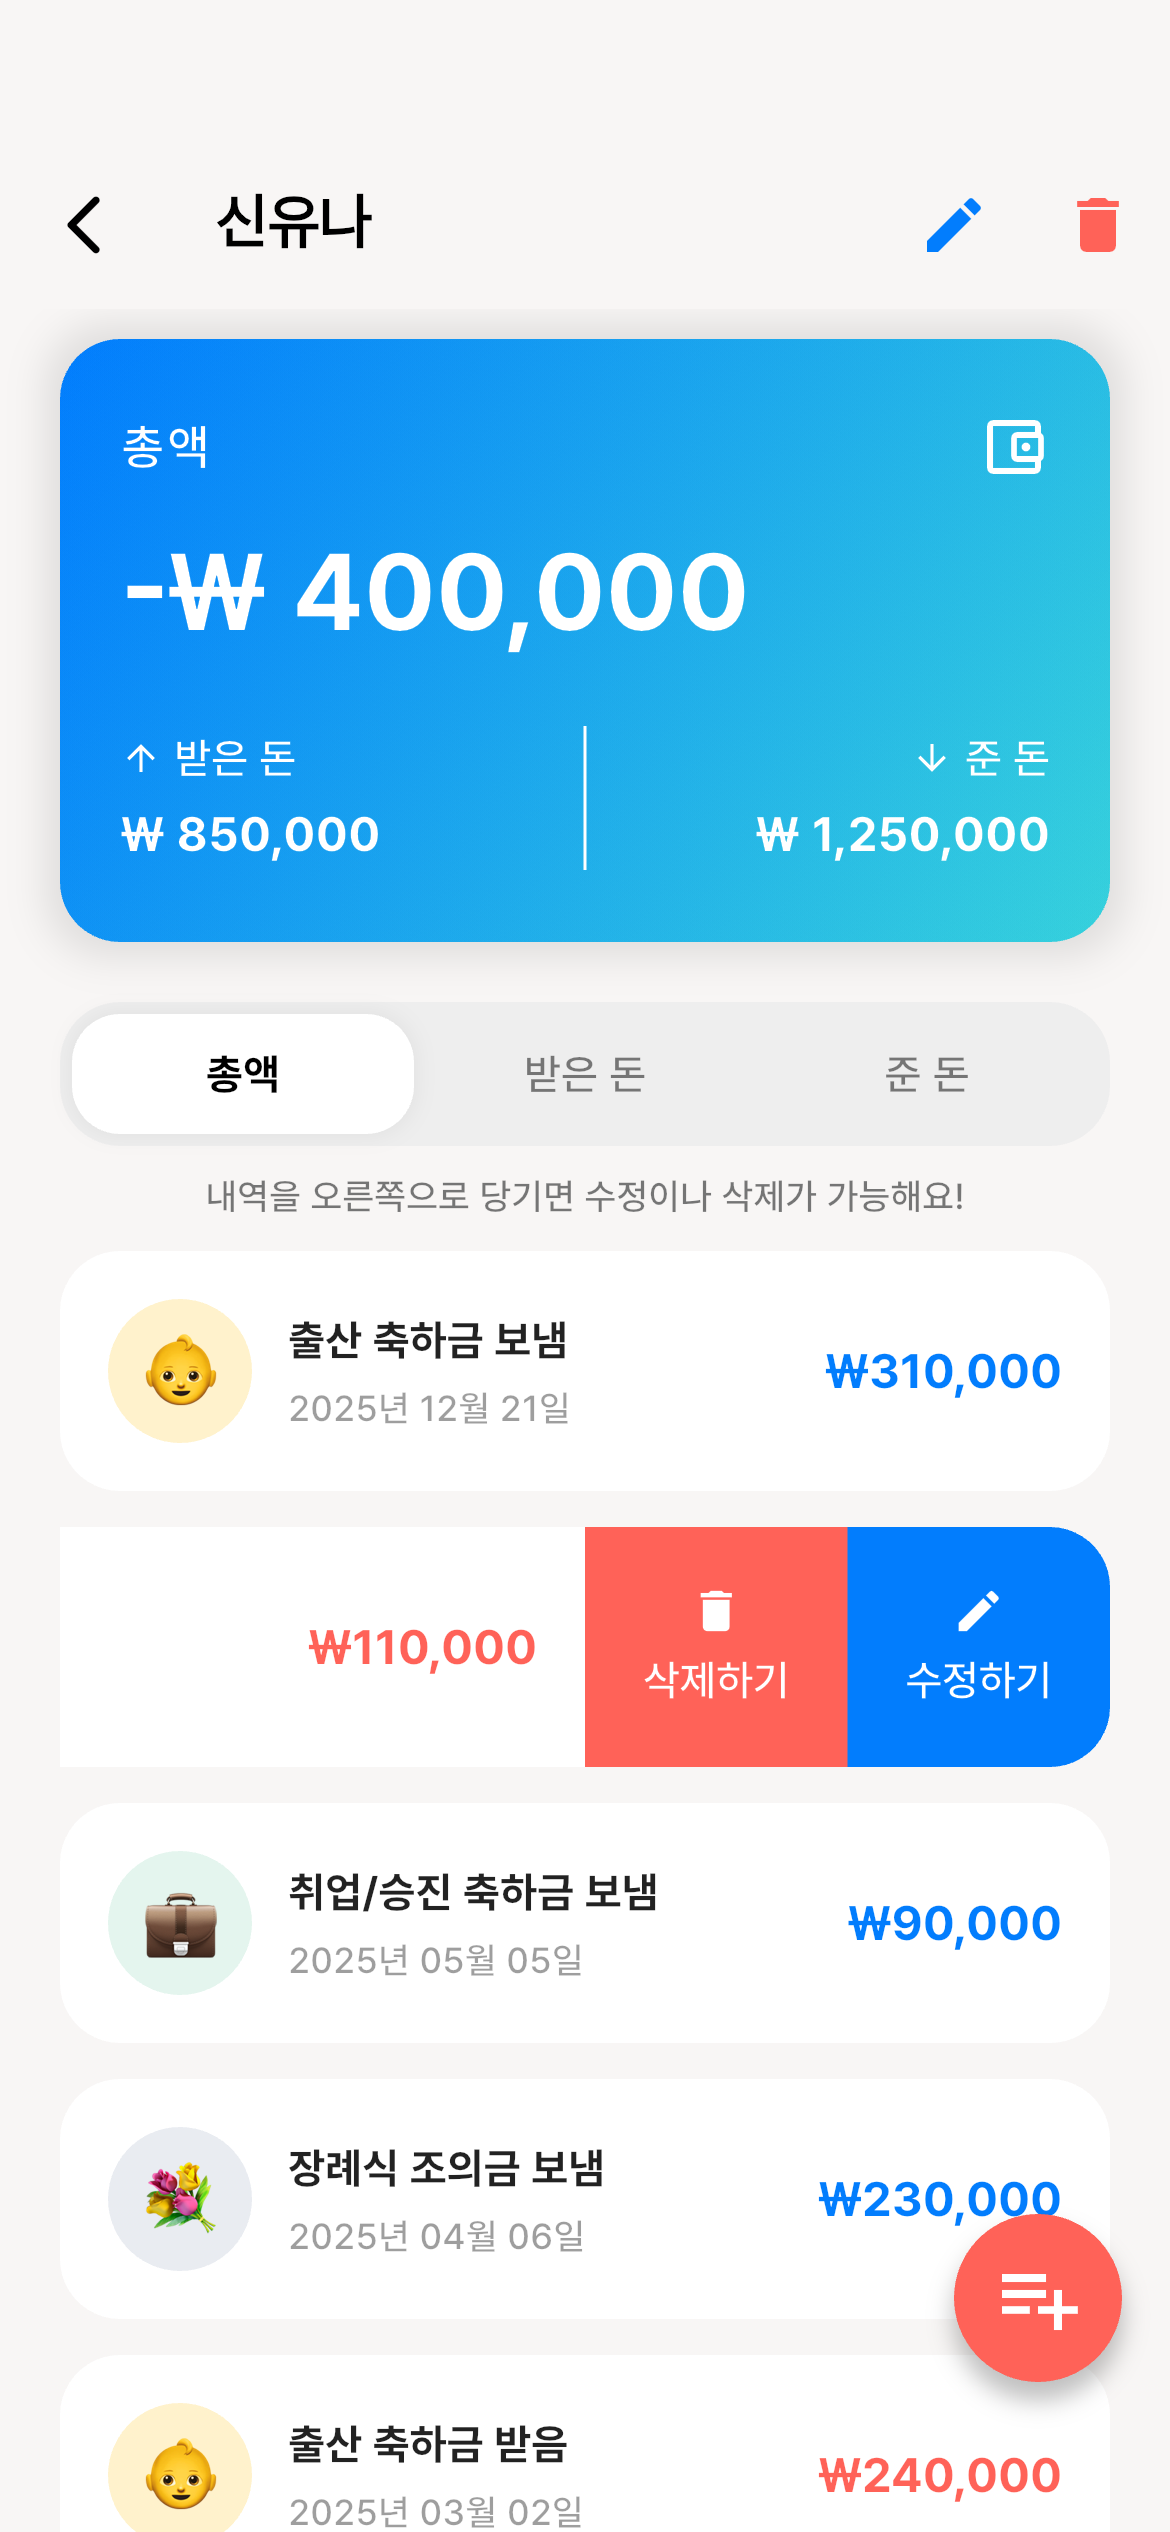
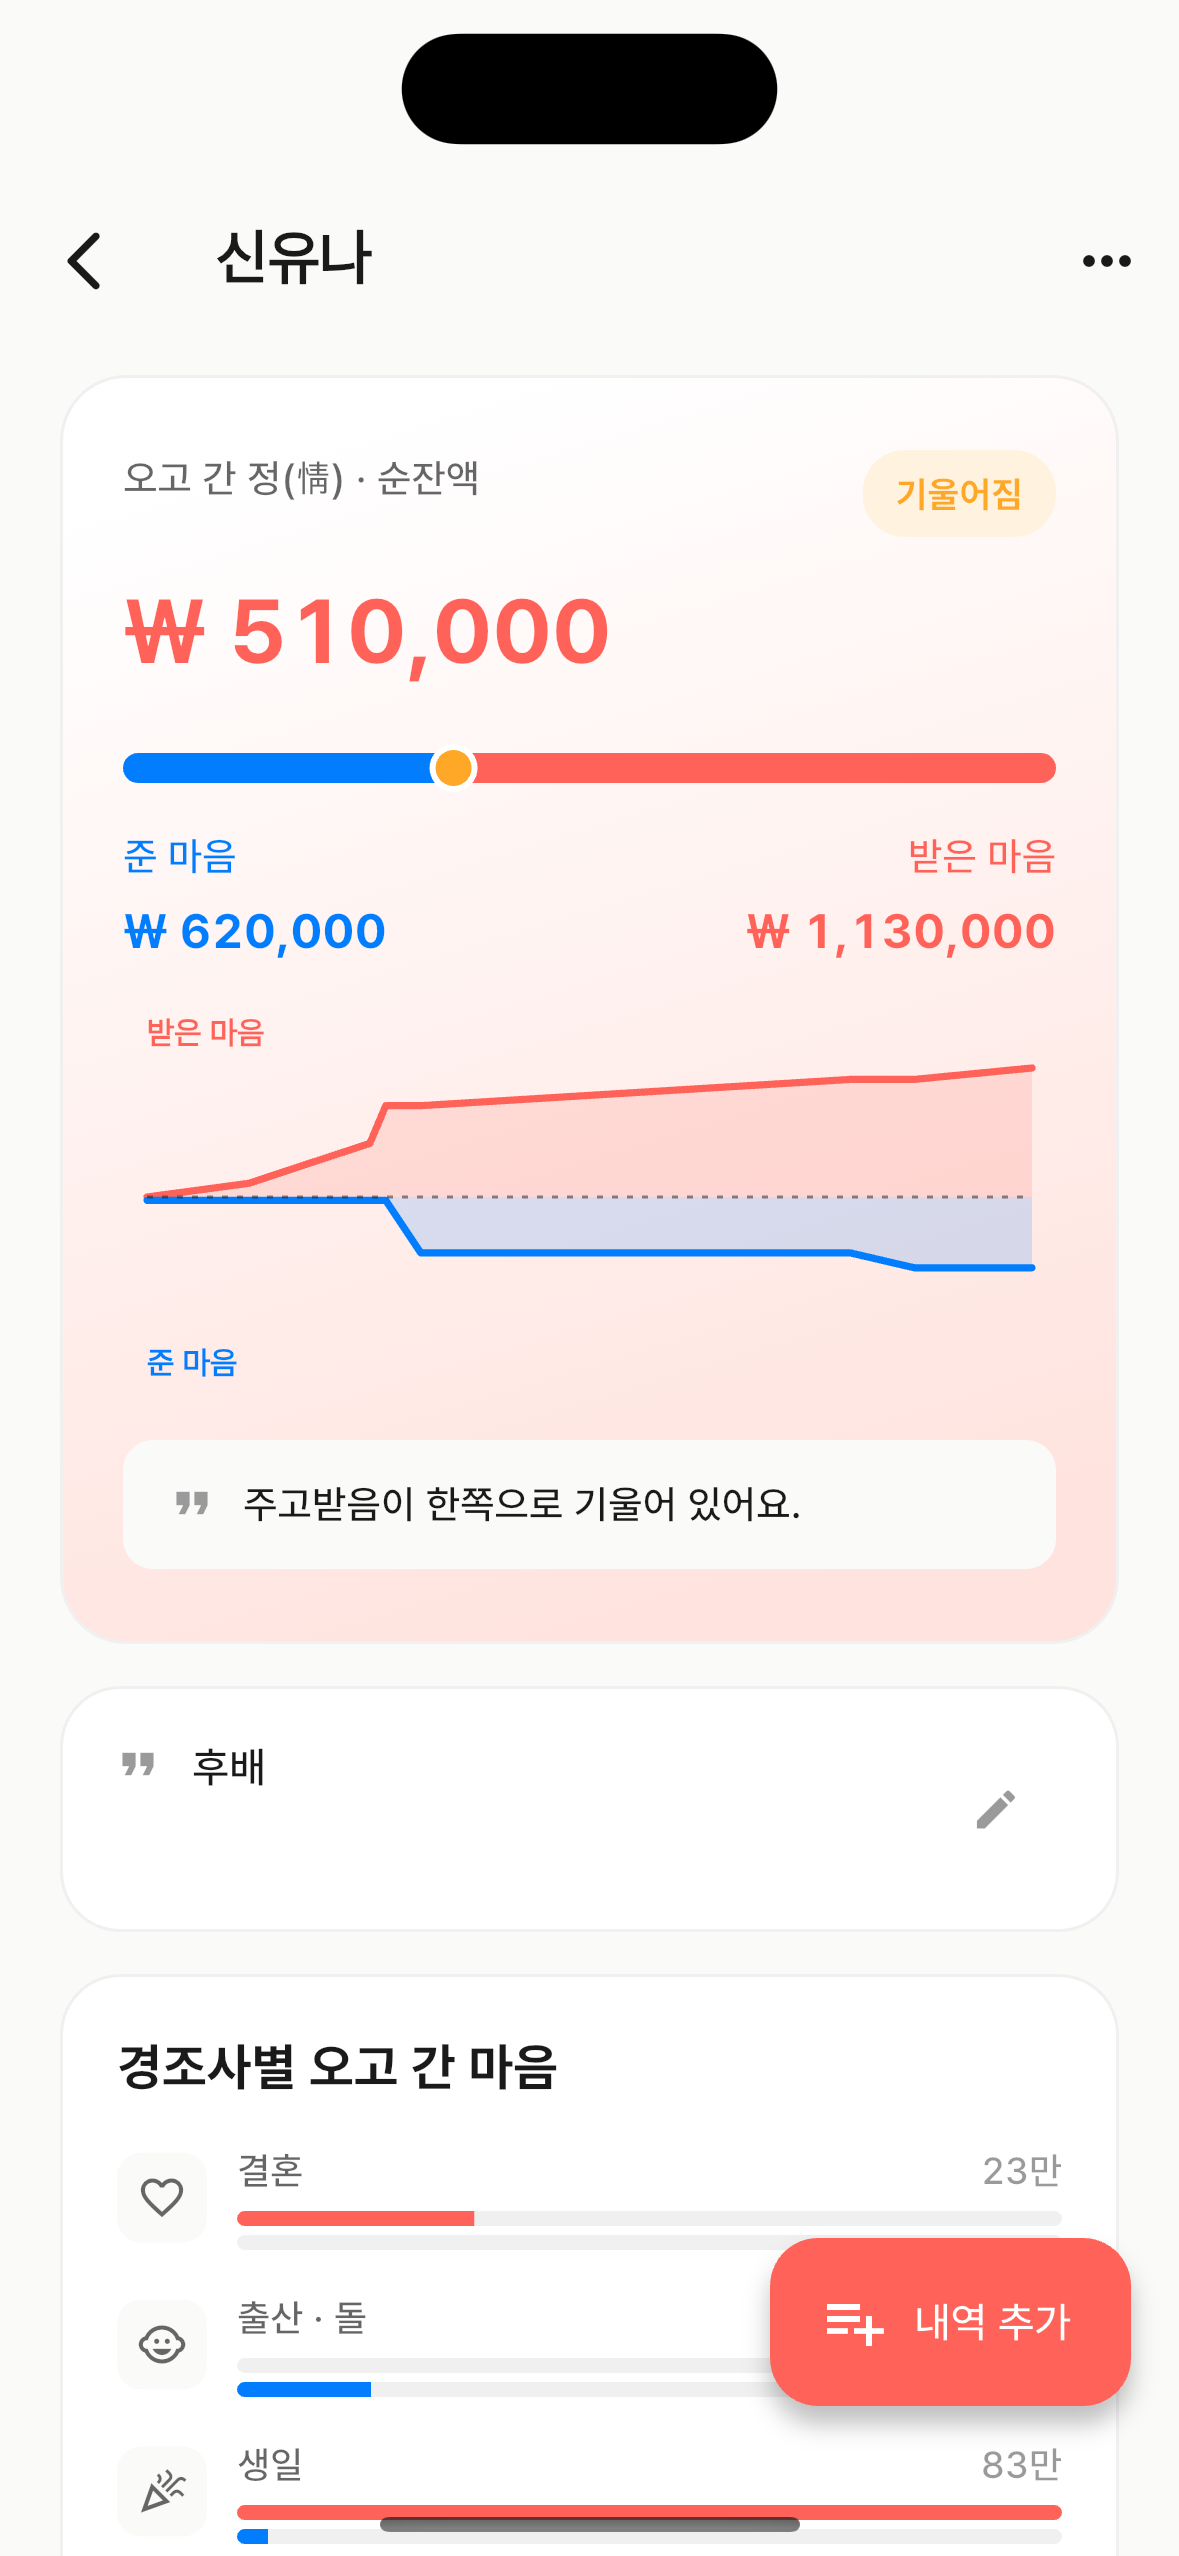
feat: v2.0 업데이트 반영 및 정책 페이지 정리
- 문의 이메일을 support@novelus.dev로 통일
- 이용약관/개인정보처리방침 페이지의 뒤로가기 버튼 제거
- 업데이트 내역(/updates) 페이지 신설, v2.0.0/v1.1.0/v1.0.0 changelog 등록
- 관계 시각화, CSV 내보내기, 다크모드 기능 소개 카드 추가
- 부정확했던 프라이버시/통계 문구 정정
- 히어로 섹션 스크린샷을 v2.0 실기기 캡처로 교체

diff --git a/app/updates/page.tsx b/app/updates/page.tsx
@@ -1,0 +1,106 @@
+import type { Metadata } from "next"
+import { CheckCircle2 } from "lucide-react"
+import { PolicyLayout } from "@/components/policy-layout"
+
+export const metadata: Metadata = {
+  title: "업데이트 내역 - CashHeart",
+  description: "CashHeart 앱의 버전별 업데이트 내역입니다.",
+}
+
+interface ChangelogEntry {
+  version: string
+  date: string
+  summary: string
+  items: string[]
+  latest?: boolean
+}
+
+const changelog: ChangelogEntry[] = [
+  {
+    version: "v2.0.0",
+    date: "2026-07-24",
+    summary:
+      "사람별 관계를 더 깊이 볼 수 있도록 관계 시각화를 새로 만들고, 통계와 데이터 내보내기 기능을 추가했습니다.",
+    items: [
+      "관계별로 오고 간 정을 관찰자 시점으로 보여주는 균형 시각화 추가",
+      "경조사가 몰리는 시기, 작년과의 비교 통계 추가",
+      "기록을 CSV로 내보내는 기능 추가",
+      "화면 디자인 전면 리뉴얼",
+      "이전 버전 데이터는 자동으로 안전하게 이관됩니다",
+    ],
+    latest: true,
+  },
+  {
+    version: "v1.1.0",
+    date: "2026-01-18",
+    summary:
+      "홈 화면을 더 보기 쉽게 바꾸고, 지인 분류와 통계 기능을 추가했습니다.",
+    items: [
+      "홈에서 전체 · 받은 · 준 금액을 한눈에 확인",
+      "지인 카테고리 & 필터로 원하는 사람만 보기",
+      "지인 삭제 기능 추가",
+      "다크 모드 지원",
+      "최근 6개월 거래 흐름 & 카테고리별 통계 제공",
+    ],
+  },
+  {
+    version: "v1.0.0",
+    date: "2025-11-27",
+    summary: "CashHeart가 처음 출시되었습니다.",
+    items: [
+      "홈에서 전체 거래 금액 · 받은 돈 · 준 돈 요약 보기",
+      "지인 카테고리 & 필터로 정리하기",
+      "받은 돈 / 준 돈 자동 합산",
+      "간단한 내역 추가 · 수정 · 삭제",
+      "최근 6개월 거래 흐름 및 카테고리별 통계",
+      "모든 데이터를 기기에만 저장하는 로컬 저장 기반",
+    ],
+  },
+]
+
+export default function UpdatesPage() {
+  return (
+    <PolicyLayout title="업데이트 내역">
+      <div className="space-y-8">
+        <p className="text-muted-foreground">
+          CashHeart의 새로운 기능과 개선 사항을 버전별로 확인할 수 있습니다.
+        </p>
+
+        <div className="space-y-6">
+          {changelog.map((entry) => (
+            <section
+              key={entry.version}
+              className="rounded-xl border border-border bg-card p-6 shadow-sm md:p-8"
+            >
+              <div className="mb-4 flex flex-wrap items-center gap-3">
+                <span className="rounded-full bg-primary/10 px-3 py-1 text-sm font-semibold text-primary">
+                  {entry.version}
+                </span>
+                {entry.latest && (
+                  <span className="rounded-full bg-foreground px-3 py-1 text-xs font-semibold text-background">
+                    최신
+                  </span>
+                )}
+                <time className="text-sm text-muted-foreground">{entry.date}</time>
+              </div>
+
+              <p className="mb-4 font-medium text-foreground">{entry.summary}</p>
+
+              <ul className="space-y-2">
+                {entry.items.map((item) => (
+                  <li
+                    key={item}
+                    className="flex items-start gap-2 text-muted-foreground"
+                  >
+                    <CheckCircle2 className="mt-0.5 h-5 w-5 shrink-0 text-primary" />
+                    <span>{item}</span>
+                  </li>
+                ))}
+              </ul>
+            </section>
+          ))}
+        </div>
+      </div>
+    </PolicyLayout>
+  )
+}

diff --git a/app/privacy/page.tsx b/app/privacy/page.tsx
@@ -84,7 +84,7 @@ export default async function PrivacyPage() {
         <section>
           <h2 className="mb-4 text-xl font-semibold text-foreground">데이터 보존 정책</h2>
           <p>
-            서비스 제공자는 귀하가 애플리케이션을 사용하는 동안 그리고 그 이후 합리적인 기간 동안 사용자 제공 데이터를 보존합니다. 귀하가 애플리케이션을 통해 제공한 사용자 제공 데이터를 삭제하기를 원하는 경우, <a href="mailto:noveluslab@proton.me" className="text-primary hover:underline">noveluslab@proton.me</a>로 연락 주시면 합리적인 기간 내에 응답할 것입니다.
+            서비스 제공자는 귀하가 애플리케이션을 사용하는 동안 그리고 그 이후 합리적인 기간 동안 사용자 제공 데이터를 보존합니다. 귀하가 애플리케이션을 통해 제공한 사용자 제공 데이터를 삭제하기를 원하는 경우, <a href="mailto:support@novelus.dev" className="text-primary hover:underline">support@novelus.dev</a>로 연락 주시면 합리적인 기간 내에 응답할 것입니다.
           </p>
         </section>
 
@@ -97,7 +97,7 @@ export default async function PrivacyPage() {
             애플리케이션은 13세 미만의 이용자를 대상으로 하지 않습니다. 서비스 제공자는 13세 미만 아동의 개인 식별 정보를 고의로 수집하지 않습니다. 서비스 제공자가 13세 미만 아동이 개인 정보를 제공했음을 발견하는 경우, 서비스 제공자는 즉시 해당 정보를 서버에서 삭제할 것입니다.
           </p>
           <p>
-            귀하가 부모 또는 보호자이며 귀하의 자녀가 당사에 개인 정보를 제공했음을 알고 있는 경우, 서비스 제공자(<a href="mailto:noveluslab@proton.me" className="text-primary hover:underline">noveluslab@proton.me</a>)에게 연락하여 필요한 조치를 취할 수 있도록 알려주시기 바랍니다.
+            귀하가 부모 또는 보호자이며 귀하의 자녀가 당사에 개인 정보를 제공했음을 알고 있는 경우, 서비스 제공자(<a href="mailto:support@novelus.dev" className="text-primary hover:underline">support@novelus.dev</a>)에게 연락하여 필요한 조치를 취할 수 있도록 알려주시기 바랍니다.
           </p>
         </section>
 

diff --git a/components/features-section.tsx b/components/features-section.tsx
@@ -1,4 +1,4 @@
-import { Home, Users, Calculator, Plus, BarChart3, Smartphone } from "lucide-react"
+import { Home, Users, Scale, Calculator, Plus, BarChart3, FileDown, Smartphone, Moon } from "lucide-react"
 
 const features = [
   {
@@ -12,6 +12,12 @@ const features = [
     title: "지인 카테고리 & 필터",
     description:
       "지인을 카테고리로 나누어 관리하고, 필터를 통해 원하는 사람만 골라서 볼 수 있습니다.",
+  },
+  {
+    icon: Scale,
+    title: "관계별로 오고 간 정 확인",
+    description:
+      "사람마다 받은 마음과 보낸 마음이 어느 쪽으로 얼마나 기울어 있는지 관찰자 시점으로 보여드려요.",
   },
   {
     icon: Calculator,
@@ -29,13 +35,23 @@ const features = [
     icon: BarChart3,
     title: "통계로 한 번 더 정리",
     description:
-      "최근 6개월 거래 흐름을 그래프로 확인하고, 카테고리별 분석과 Top 지인 목록을 볼 수 있습니다.",
+      "최근 6개월 거래 흐름과 카테고리별 분포는 물론, 경조사가 몰리는 시기와 작년 같은 기간과의 비교까지 확인할 수 있어요.",
+  },
+  {
+    icon: FileDown,
+    title: "기록은 CSV로 내보내기",
+    description: "쌓인 기록을 CSV로 내보내 엑셀 등에서 다시 활용할 수 있습니다.",
   },
   {
     icon: Smartphone,
     title: "로컬 저장 기반",
     description:
       "모든 데이터를 사용자의 기기에만 저장합니다. 인터넷 없이도 기록을 열람하고 추가할 수 있습니다.",
+  },
+  {
+    icon: Moon,
+    title: "다크모드 지원",
+    description: "화면 테마를 자동 · 라이트 · 다크 중에서 선택할 수 있어요.",
   },
 ]
 

diff --git a/components/policy-layout.tsx b/components/policy-layout.tsx
@@ -2,9 +2,6 @@
 
 import React from "react"
 
-import { ArrowLeft } from "lucide-react"
-import { useRouter } from "next/navigation"
-import { Button } from "@/components/ui/button"
 import { Footer } from "@/components/footer"
 
 interface PolicyLayoutProps {
@@ -13,24 +10,8 @@ interface PolicyLayoutProps {
 }
 
 export function PolicyLayout({ title, children }: PolicyLayoutProps) {
-  const router = useRouter()
-
   return (
     <div className="flex min-h-screen flex-col">
-      {/* Back Button Header */}
-      <header className="sticky top-0 z-50 w-full border-b border-border bg-background/95 backdrop-blur supports-[backdrop-filter]:bg-background/60">
-        <div className="mx-auto flex h-16 max-w-4xl items-center px-4 md:px-6">
-          <Button
-            variant="ghost"
-            onClick={() => router.back()}
-            className="flex items-center gap-2 text-muted-foreground hover:text-foreground"
-          >
-            <ArrowLeft className="h-5 w-5" />
-            <span>이전 페이지</span>
-          </Button>
-        </div>
-      </header>
-
       {/* Content */}
       <main className="flex-1 py-8 md:py-12">
         <div className="mx-auto max-w-4xl px-4 md:px-6">

diff --git a/components/hero-section.tsx b/components/hero-section.tsx
@@ -49,7 +49,7 @@ export function HeroSection() {
                   src="/images/home.png"
                   alt="CashHeart 앱 홈 화면"
                   width={220}
-                  height={440}
+                  height={477}
                   className="h-auto w-[160px] md:w-[200px]"
                   priority
                 />
@@ -60,7 +60,7 @@ export function HeroSection() {
                   src="/images/detail.png"
                   alt="CashHeart 지인과의 거래 내역"
                   width={260}
-                  height={520}
+                  height={564}
                   className="h-auto w-[180px] md:w-[240px]"
                   priority
                 />
@@ -71,7 +71,7 @@ export function HeroSection() {
                   src="/images/report.png"
                   alt="CashHeart 앱 통계 화면"
                   width={220}
-                  height={440}
+                  height={477}
                   className="h-auto w-[160px] md:w-[200px]"
                   priority
                 />

diff --git a/components/target-users-section.tsx b/components/target-users-section.tsx
@@ -6,6 +6,7 @@ const targetUsers = [
   "사람별로 내역을 따로 정리하고 싶은 분",
   "카테고리별로 깔끔하게 분류해서 보고 싶은 분",
   "간단한 조작으로 오래 보관되는 기록 앱을 찾는 분",
+  "관계의 흐름이나 균형을 함께 보고 싶은 분",
 ]
 
 export function TargetUsersSection() {
@@ -34,7 +35,7 @@ export function TargetUsersSection() {
                 <p className="mb-2 text-6xl font-bold text-primary">100%</p>
                 <p className="text-lg font-medium text-foreground">로컬 저장</p>
                 <p className="mt-2 text-sm text-muted-foreground">
-                  외부 서버 전송 없이
+                  오류 발생 시에만 진단 정보 전송
                   <br />
                   내 기기에만 안전하게 보관
                 </p>

diff --git a/components/footer.tsx b/components/footer.tsx
@@ -1,6 +1,6 @@
 import Link from "next/link"
 
-const CONTACT_EMAIL = "contact@novelus.dev"
+const CONTACT_EMAIL = "support@novelus.dev"
 
 export function Footer() {
   return (
@@ -22,6 +22,12 @@ export function Footer() {
             </p>
           </div>
           <nav className="flex gap-4">
+            <Link
+              href="/updates"
+              className="text-sm text-muted-foreground hover:text-foreground hover:underline"
+            >
+              업데이트 내역
+            </Link>
             <Link
               href="/privacy"
               className="text-sm text-muted-foreground hover:text-foreground hover:underline"

diff --git a/lib/utils.ts b/lib/utils.ts
@@ -9,7 +9,7 @@ type EmailType = "support" | "contact"
 
 const EMAIL_MAP: Record<EmailType, string> = {
   support: "support@novelus.dev",
-  contact: "contact@novelus.dev",
+  contact: "support@novelus.dev",
 }
 
 export function getEmailUrl(type: "support" | "contact", appName: string, locale: string): string {
